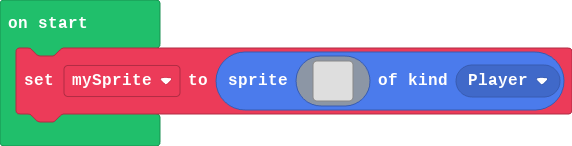
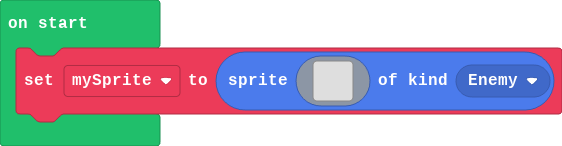
changed player to enemy

diff --git a/main.ts b/main.ts
@@ -15,4 +15,4 @@ let mySprite = sprites.create(img`
     . . . . . . . . . . . . . . . . 
     . . . . . . . . . . . . . . . . 
     . . . . . . . . . . . . . . . . 
-    `, SpriteKind.Player)
+    `, SpriteKind.Enemy)
